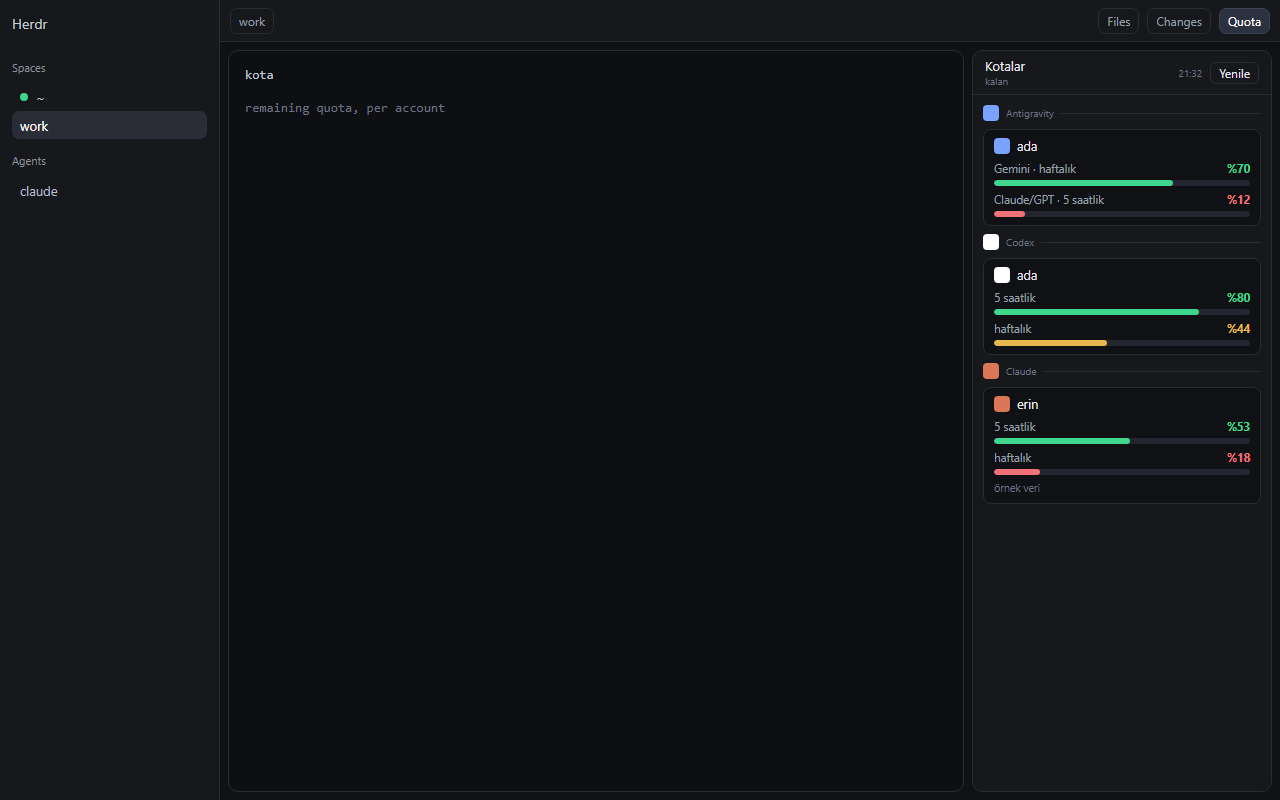
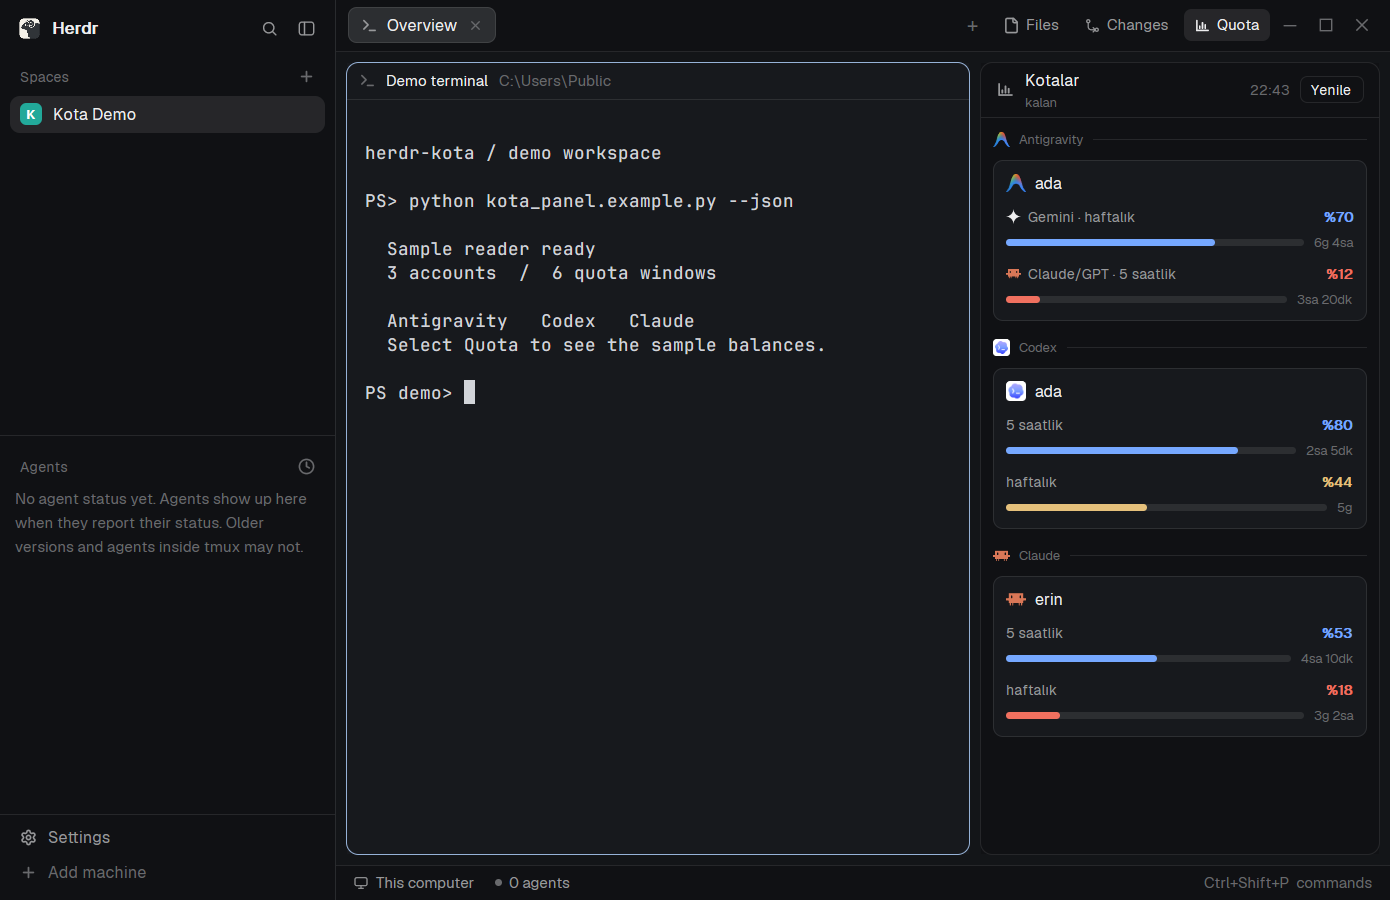
Showcase Herdr Kota with live app screenshots

diff --git a/README.md b/README.md
@@ -1,21 +1,62 @@
 # Herdr Kota
 
-A Herdr desktop layout with a quota panel beside the terminal. The **Quota** button shows or hides the panel. Each account card shows remaining usage by window and the next reset when the quota source provides it.
+See how much quota you have left while you work in Herdr. **Kota** adds a panel beside your terminal with account-by-account usage bars, remaining percentages, and reset times when your quota reader provides them.
 
-![Herdr Kota with sample accounts](preview.png)
+![Kota in Herdr with three sample accounts beside the terminal](preview.png)
 
-## Install
+## Read your quotas at a glance
 
-Give this repository link to your Herdr agent and ask it to add the layout. For manual setup:
+| In the panel | What it tells you |
+| --- | --- |
+| **Quota** | Open or hide the panel from the tab bar next to Files and Changes. |
+| **Account cards** | Tell Antigravity, Codex, Claude, and Grok accounts apart by name and provider icon. |
+| **Usage rows** | Read the percentage **remaining** for each window, such as five-hour or weekly, with its reset time. |
+| **Yenile** | Refresh now. The panel also checks every three minutes while the window is visible. |
 
-1. Copy `layouts/kota.json` and both folders under `mods/` into the corresponding directories in your Herdr app home (typically `~/.config/herdr-app`).
-2. Select **Kota** with Herdr's layout switcher (`Ctrl+Shift+L`).
-3. Open **Quota**. Python 3 is required to run the quota reader. The panel labels are in Turkish.
+![Kota quota cards with provider logos, reset times, and color-coded remaining quota bars](docs/quota-panel.png)
 
-The bundled Python reader shows sample accounts. To display your own quotas, use `mods/kota/kota_panel.example.py` as a JSON format reference and place your own reader at `~/.herdr-hesaplar/kota_panel.py`. The panel runs the local reader when you open it and when you select **Yenile** (Refresh).
+*Both images show sample accounts. The panel labels are in Turkish.*
 
-See [RECIPE.md](RECIPE.md) for the layout, refresh behavior, and quota format.
+## Try it with sample data
+
+You need **Herdr App** and **Python 3** on your PATH. The layout is based on Herdr App 0.1.18.
+
+Give your Herdr agent this installation prompt.
+
+```text
+Read ~/.config/herdr-app/AGENTS.md, then add this layout:
+https://github.com/Emrelushig/herdr-kota
+```
+
+To install it manually, follow these steps.
+
+1. Copy [layouts/kota.json](layouts/kota.json) to `layouts/` in your Herdr app home, usually `~/.config/herdr-app`.
+2. Copy [mods/kota/](mods/kota) and [mods/tabs-kota/](mods/tabs-kota) into that home's `mods/` directory.
+3. Select **Kota** with **Ctrl+Shift+L**. Use **Quota** in the tab bar to show or hide the bundled sample accounts.
+
+## Connect a real quota reader
+
+To show live quotas, supply your own Python reader at `~/.herdr-hesaplar/kota_panel.py`. Herdr runs it locally with `--json`. Your reader fetches or reads the quota data and prints a JSON object to standard output.
+
+Start from [the sample reader](mods/kota/kota_panel.example.py). Give each account a stable `profil` and use `agy`, `codex`, `claude`, or `grok` for `arac`. Set each row's `kalan` to the **percentage remaining**, from 0 to 100. Use an ISO timestamp for `reset` or a display label in `reset_metin`.
+
+| JSON field | Example |
+| --- | --- |
+| `zaman` | `2026-11-26T19:30:00` |
+| `hesaplar[].arac` | `codex` |
+| `hesaplar[].ad` | `work` |
+| `hesaplar[].satirlar[].ad` | `5 saatlik` |
+| `hesaplar[].satirlar[].kalan` | `80` |
+| `hesaplar[].satirlar[].reset_metin` | `2sa 5dk` |
+
+Your reader handles provider authentication. The full data format and layout details are in [RECIPE.md](RECIPE.md).
+
+## Türkçe
+
+Kota, Herdr’da terminalin yanında ne kadar kullanım hakkın kaldığını gösterir. **Quota** ile paneli açıp kapatabilir, **Yenile** ile değerleri tekrar okutabilirsin. Her hesapta kullanım penceresi, kalan yüzde ve kaynak sağlıyorsa sıfırlanma süresi görünür.
+
+Önce paketteki örnek hesaplarla deneyebilirsin. Gerçek kotalar için kendi Python okuyucunu `~/.herdr-hesaplar/kota_panel.py` konumuna koy. Çıktı biçimi için [örnek okuyucuya](mods/kota/kota_panel.example.py) bak.
 
 ## Credits
 
-`layouts/kota.json` and `mods/tabs-kota/` adapt the main layout and tabs mod from [Herdr App 0.1.18](https://github.com/herdrdev/herdr-app/tree/v0.1.18). The layout adds the quota panel, and the tabs mod adds its toggle. Provider icons are supplied by Herdr. See the upstream [Apache 2.0 license](LICENSE).
+The layout and tab bar adapt [Herdr App 0.1.18](https://github.com/herdrdev/herdr-app/tree/v0.1.18). Herdr supplies the provider icons. See the upstream [Apache 2.0 license](LICENSE).

diff --git a/RECIPE.md b/RECIPE.md
@@ -1,6 +1,6 @@
 # Kota
 
-A Herdr window with the usual spaces, agents and terminal, plus a quota panel on the right. The tab bar shows Files, Changes and Quota. Quota shows and hides the panel. The panel lists remaining quota per account: a provider logo, the account name, each window's name, a bar, the percent left, and when it resets.
+See how much quota you have left without leaving your Herdr terminal. Open Quota for account cards with provider logos, remaining percentages, usage bars and reset times. Try it with the bundled sample data, then connect your own local reader for live Antigravity, Codex, Claude or Grok quotas.
 
 ![Kota](preview.png)
 
@@ -10,7 +10,7 @@ The window is the Herdr main layout. Root background is `canvas`. The left sideb
 
 The work column has no drag divider. Its tab bar is 42px and drags the window. Under it, an 8px padded row with an 8px gap holds three things. The terminal fills the leftover width: pane cards with a 10px radius, 8px gap, a 1px `border`, a 1px `accent` focus ring, and a 30px pane header that stays visible. A single pane is framed too. Next, the Files and Changes stack is 368px, min 280, max 900, and starts hidden. Last, the kota panel is 320px, min 240, max 520, chrome background, 10px radius, 1px `border`. A 28px status bar sits under the row. The system title bar is hidden. macOS traffic lights sit at 12, 16.
 
-The kota panel header is 44px: a small bar-chart icon, the words Kotalar and kalan, the time of the last read, and a Yenile button. Below, each provider is a dim title-case name, its logo, and a hairline. Each account is a card: 8px radius, 1px `border`, `background` fill, 10px horizontal and 8px vertical padding. The card title is the account name beside a 16px logo. A row is the quota name, a colored percent, a 6px bar, and the reset text. Green at 50 or above, amber from 20, red below. Under 10% and above 0 shows one decimal. 99.5 or above says kullanılmadı instead of a reset time. A note row is dim text with no bar.
+The kota panel header is 44px with a small bar-chart icon, the words Kotalar and kalan, the time of the last read, and a Yenile button. Below, each provider is a dim title-case name, its logo, and a hairline. Each account card has an 8px radius, a 1px `border`, a `background` fill, and 10px horizontal and 8px vertical padding. The card title is the account name beside a 16px logo. A row shows the quota name, a colored percentage, a 6px bar, and the reset text. The active theme supplies the colors through `done` at 50% and above, `working` from 20% to under 50%, and `blocked` below 20%. Percentages above zero and below 10% show one decimal. At 99.5% or above the row says kullanılmadı unless the reader supplies `reset_metin`. A note row is dim text with no bar.
 
 Provider logos are Herdr's own icons: Antigravity, Codex and Claude in color; Grok and Gemini tinted with the text color. A row whose name starts with Gemini or Claude also shows that logo at 12px.
 
